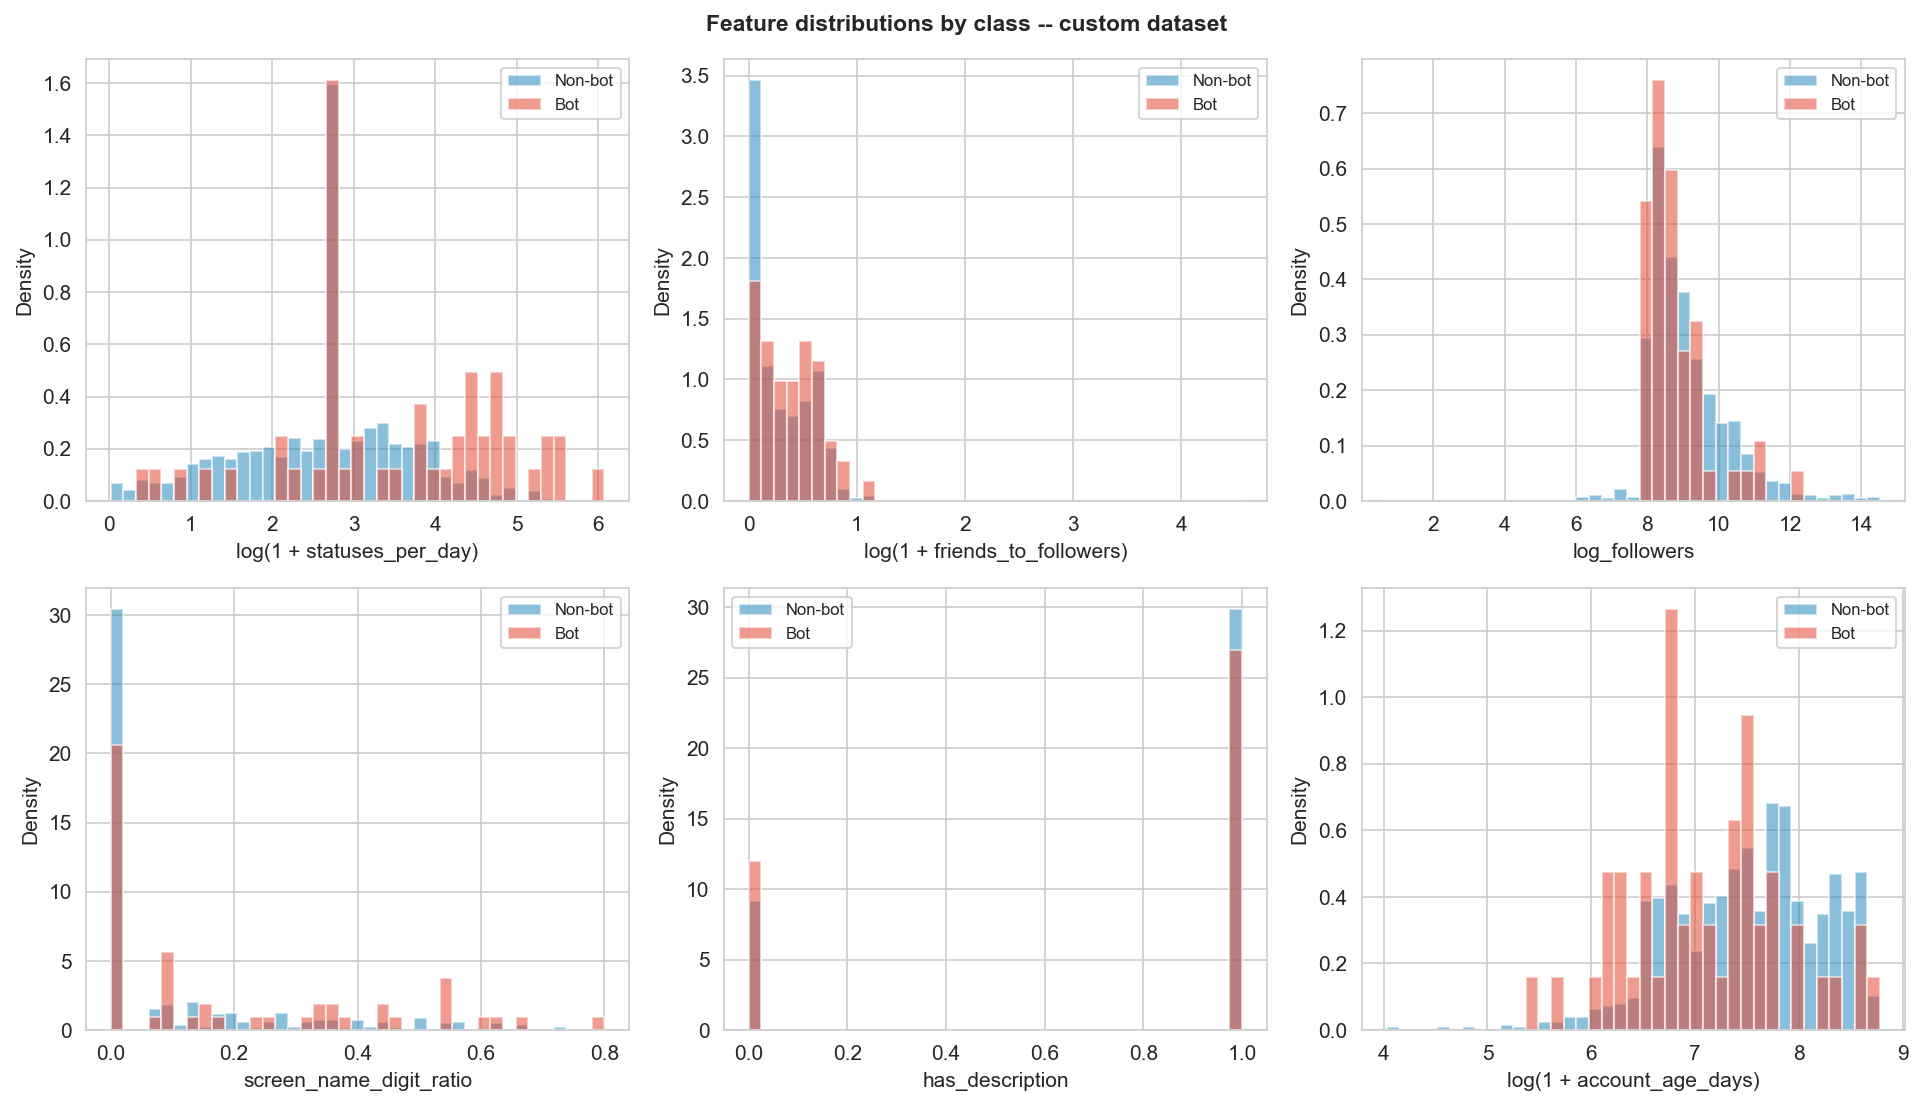
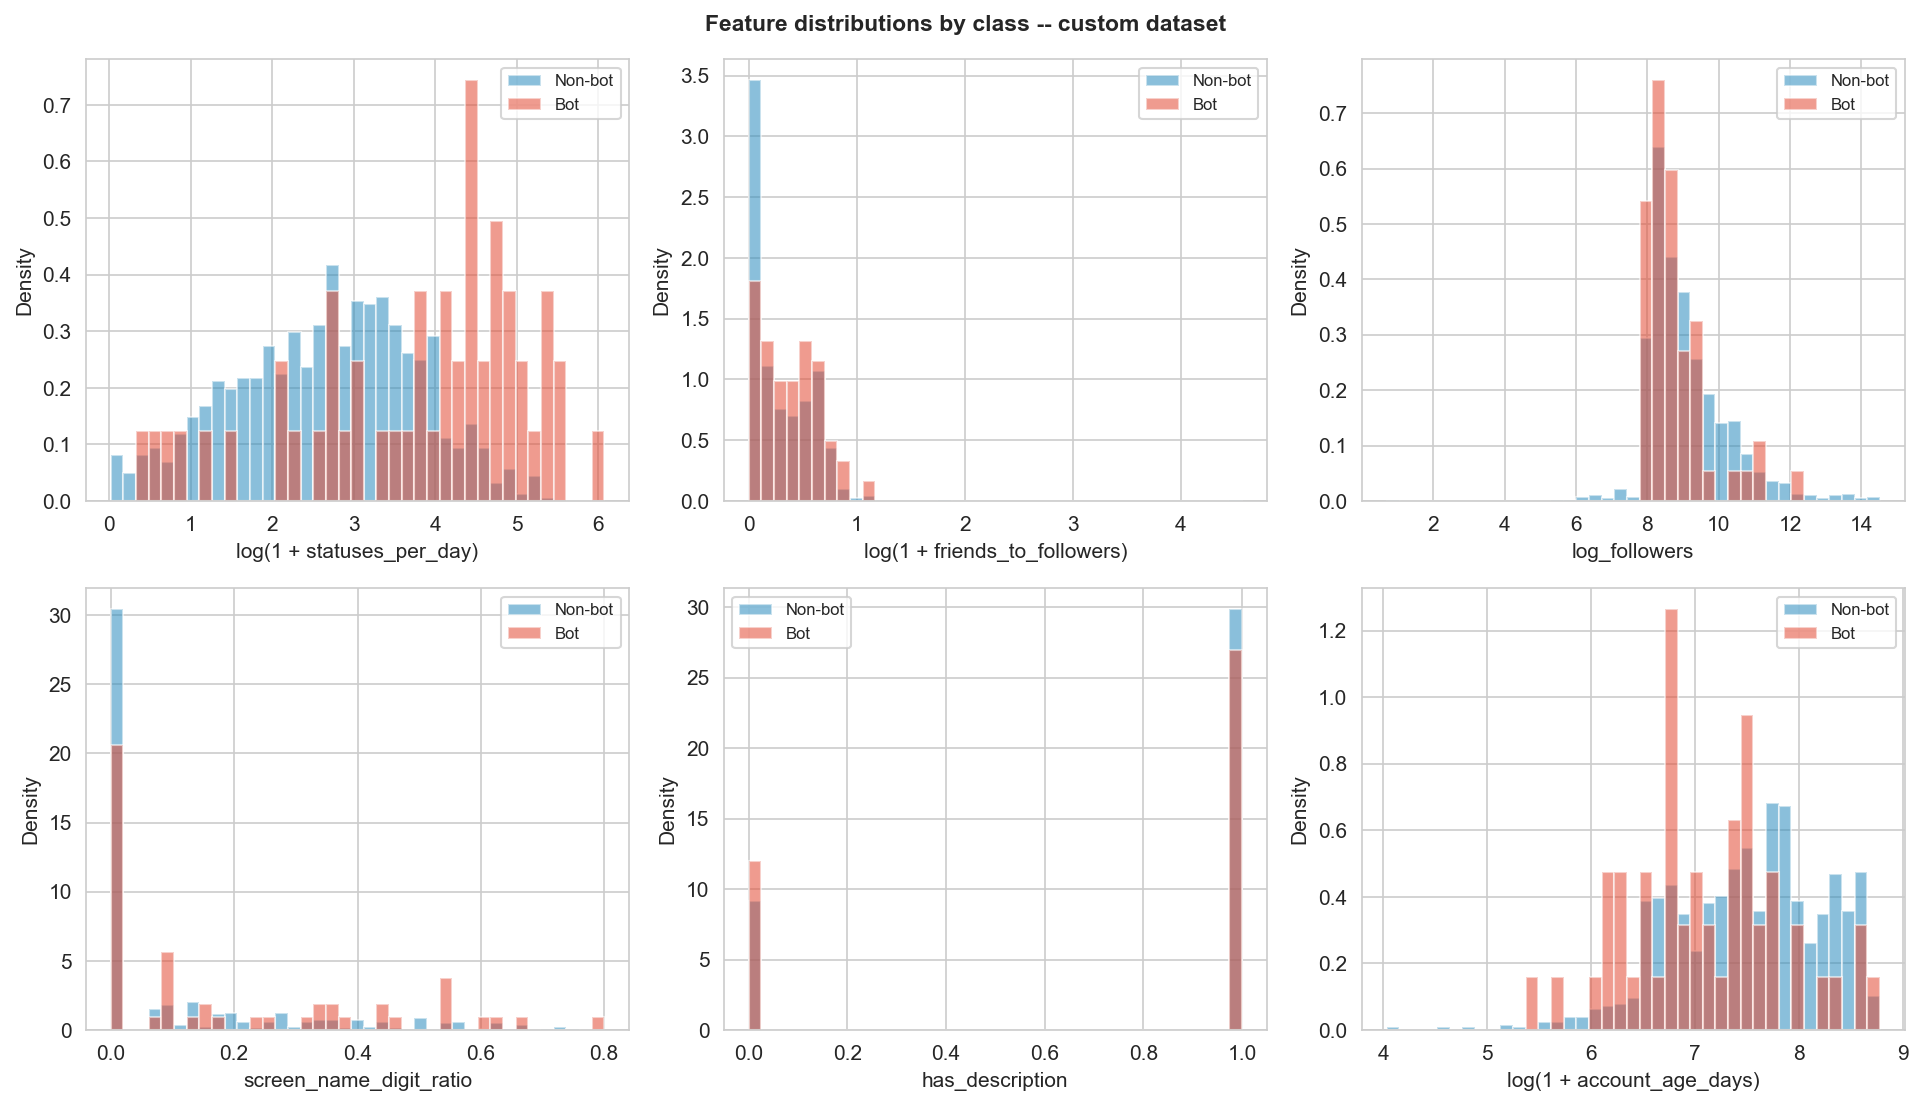
before adding content method

diff --git a/code/load_dataset2.py b/code/load_dataset2.py
@@ -83,8 +83,10 @@ def load_dataset2(xlsx_path):
     suspended = pd.read_excel(xlsx_path, sheet_name="suspend_users")
 
     main["Bot_Probability_clean"] = main["Bot_Probability"].apply(_clean_prob)
-    main["bot"] = np.where(main["Bot_Probability_clean"].notna(), (main["Bot_Probability_clean"] >= 0.5).astype(float), np.nan)
-    main["label_source"] = np.where(main["Bot_Probability_clean"].notna(), "tagger", None)
+    main["bot"] = np.where(main["Bot_Probability_clean"].notna(
+    ), (main["Bot_Probability_clean"] >= 0.5).astype(float), np.nan)
+    main["label_source"] = np.where(
+        main["Bot_Probability_clean"].notna(), "tagger", None)
 
     # reinforce with suspended accounts (strong independent bot evidence);
     # never downgrades an existing human label, only fills in gaps or
@@ -135,10 +137,11 @@ def load_dataset2(xlsx_path):
 
 if __name__ == "__main__":
     import sys
-    path = sys.argv[1] if len(sys.argv) > 1 else "all_users.xlsx"
+    path = sys.argv[1] if len(sys.argv) > 1 else "all_users_Customized.xlsx"
     df, extra_cols = load_dataset2(path)
     print(df.shape)
-    print("label_source counts:\n", df["label_source"].value_counts(dropna=False))
+    print("label_source counts:\n",
+          df["label_source"].value_counts(dropna=False))
     print("bot value counts:\n", df["bot"].value_counts(dropna=False))
     print("extra cols available:", extra_cols)
     print("botometer coverage:", df["botometer_score"].notna().sum())

diff --git a/code/evaluation.py b/code/evaluation.py
@@ -65,10 +65,10 @@ def nested_cv_evaluate(X: pd.DataFrame, y, estimator, name: str, *, scale=False,
     X = X.reset_index(drop=True)
     y = np.asarray(y, dtype=int)
 
-    print("y shape:", y.shape)
-    print("y dtype:", y.dtype)
-    print("Unique labels:", np.unique(y, return_counts=True))
-    print("Number of classes:", len(np.unique(y)))
+    # print("y shape:", y.shape)
+    # print("y dtype:", y.dtype)
+    # print("Unique labels:", np.unique(y, return_counts=True))
+    # print("Number of classes:", len(np.unique(y)))
     
     if len(np.unique(y)) != 2:
         raise ValueError("Binary labels with both classes are required.")

diff --git a/code/load_custom_dataset_v2.py b/code/load_custom_dataset_v2.py
@@ -103,7 +103,8 @@ def load_custom_v2(xlsx_path, max_tweets_per_user=20):
 
 if __name__ == "__main__":
     import sys
-    path = sys.argv[1] if len(sys.argv) > 1 else "1000user_sheet.xlsx"
+    path = sys.argv[1] if len(
+        sys.argv) > 1 else "main_with_final_tag_Customized.xlsx"
     df = load_custom_v2(path)
     print(df.shape)
     print(df["label_raw"].value_counts(dropna=False))
